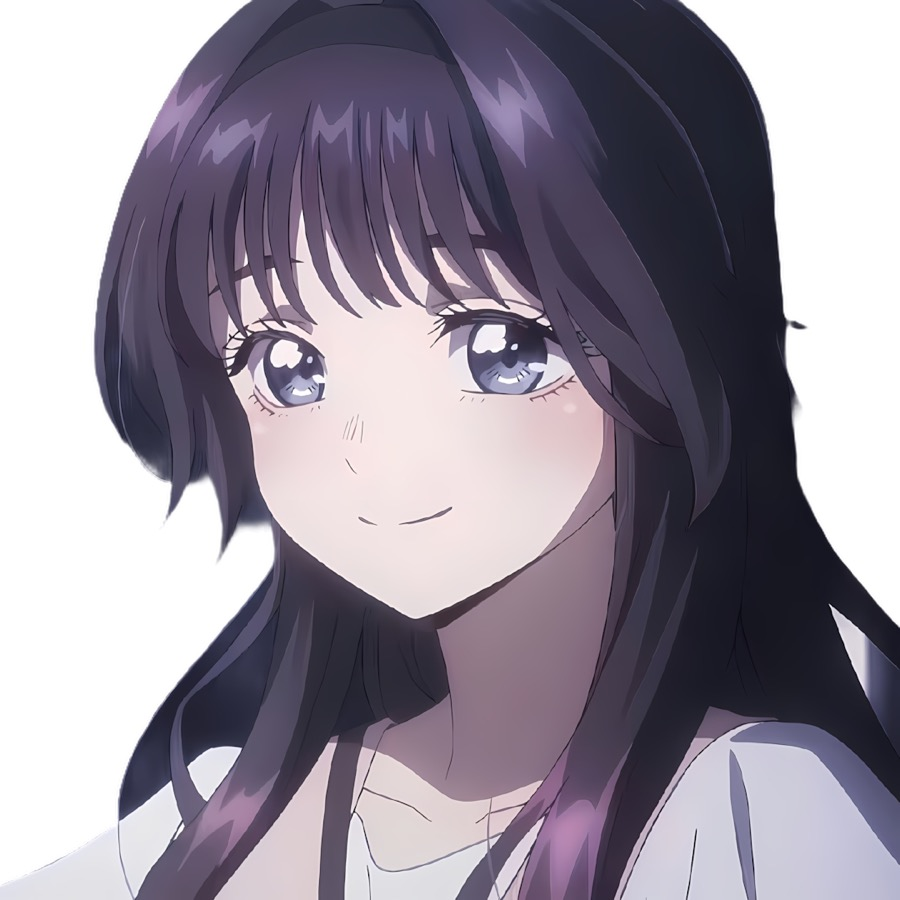
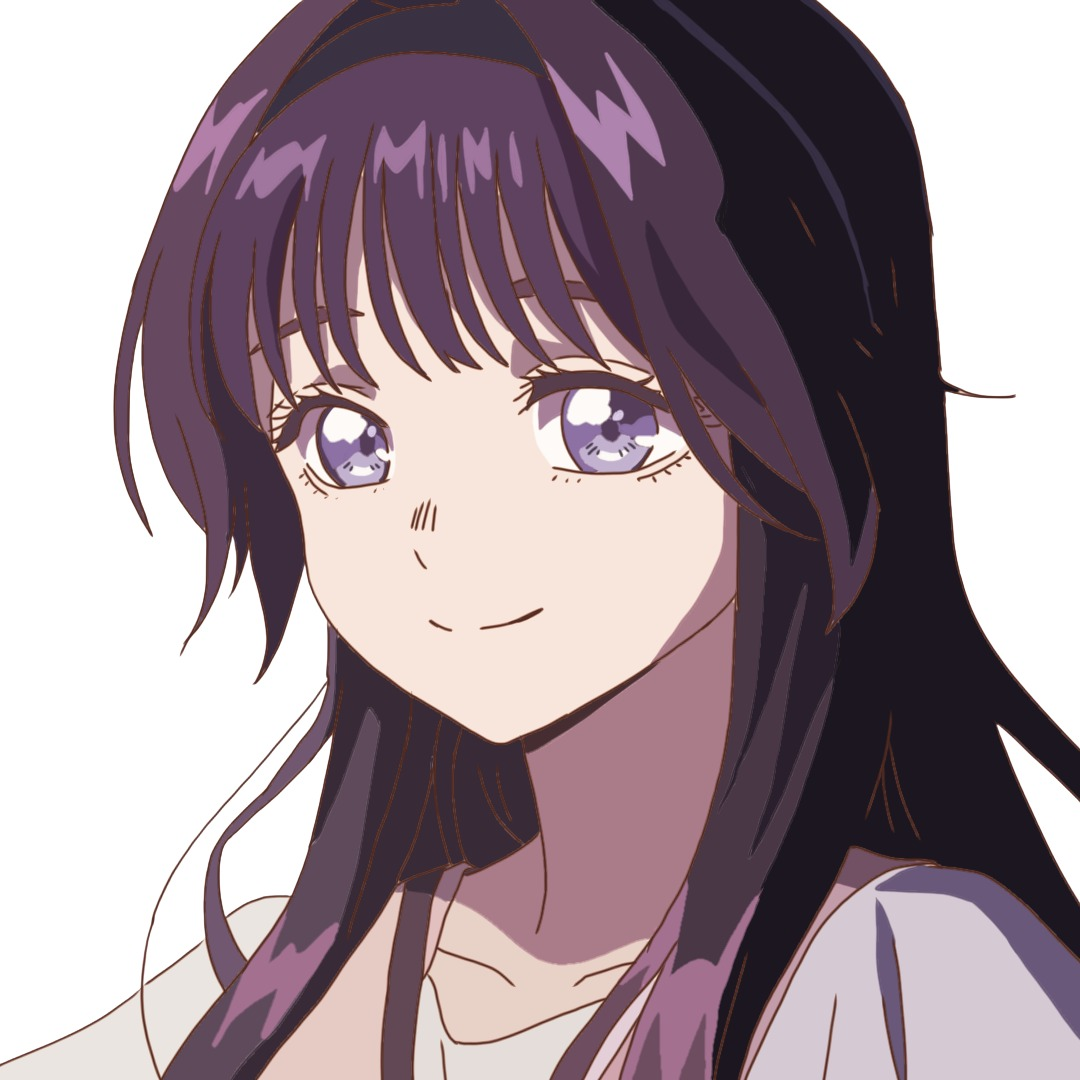
chore(assets): 更新主页头像和网站图标描述
- 替换主页头像图片及相关二进制资源
- 调整 favicon.svg 中头像颜色描述为紫发浅紫瞳
- 增加主页设计评审报告文件，包含详细设计健康评分和改进建议
- 无功能代码变更，主要为资源和文档更新

diff --git a/src/styles/index.css b/src/styles/index.css
@@ -29,15 +29,17 @@
     font-family: 'MiSans', 'MiSans Normal', 'MiSans-Normal', 'MiSans VF', -apple-system, BlinkMacSystemFont, 'Segoe UI', Roboto, sans-serif;
   }
 
-  /* 彻底消除任何元素在激活或聚焦时的浏览器原生黑边/黑框 */
-  *, *:focus, *:focus-visible, *:active {
-    outline: none !important;
-    -webkit-tap-highlight-color: transparent !important;
+  :focus {
+    outline: none;
   }
 
-  input, textarea, select, button, a {
-    outline: none !important;
-    -webkit-tap-highlight-color: transparent;
+  :focus-visible {
+    outline: 2px solid #ff8fa6;
+    outline-offset: 2px;
+  }
+
+  .dark :focus-visible {
+    outline-color: #ffc0cb;
   }
 
   /* 彻底屏蔽 Mermaid 任何全局错误炸弹 SVG 节点泄露 */

diff --git a/.impeccable/critique/2026-09-19T03-34-49Z__src-pages-home-tsx.md b/.impeccable/critique/2026-09-19T03-34-49Z__src-pages-home-tsx.md
@@ -1,0 +1,100 @@
+---
+target: 首页
+total_score: 18
+max_score: 32
+na_heuristics: 7,10
+p0_count: 0
+p1_count: 3
+target_identity: "file:/Users/xingranya/Downloads/HTML5CSS/xingranya-home/src/pages/Home.tsx"
+target_fingerprint: "sha256:afa2cae89c12dbe631ee671f31a15ba50210574d35ad58ca2324206b35ac09c4"
+target_path: /Users/xingranya/Downloads/HTML5CSS/xingranya-home/src/pages/Home.tsx
+timestamp: 2026-09-19T03-34-49Z
+slug: src-pages-home-tsx
+---
+# Critique: 首页 (`src/pages/Home.tsx`)
+
+Method: dual-agent (A: 01a0b7b1-1dca-7ec1-8afe-9e042bf96088 · B: 01a0b7b1-1dcb-7002-8d6c-d4e5209140b1)
+
+## Design Health Score
+
+| # | Heuristic | Score | Key Issue |
+|---|-----------|-------|-----------|
+| 1 | Visibility of System Status | 2 | 社交无常驻标签；在线点 hover 才出英文 `online`；搜索仅 ⌘K |
+| 2 | Match System / Real World | 2 | 中英混排；「7 篇手记 / 运行 1362 天」像模板遗产 |
+| 3 | User Control and Freedom | 3 | 导航始终在、博客新开正确；全局取消 outline、外链 5s 倒计时 |
+| 4 | Consistency and Standards | 2 | 「博客」四处入口形态不同；双信封；页脚「动态手记」≠ 导航「手记/动态」 |
+| 5 | Error Prevention | 2 | 双邮箱易点错；二维码未裁切；手记指标把访客导向模板日记 |
+| 6 | Recognition Rather Than Recall | 2 | 9 个 icon-only；代表作要自己想到点「关于」 |
+| 7 | Flexibility and Efficiency | n/a | Persuade/Experience 名片页，无重复专家任务 |
+| 8 | Aesthetic and Minimalist Design | 3 | 纸与姓名克制；雨丝、9 图标、7 导航、半屏页脚抢像素 |
+| 9 | Error Recovery | 2 | 首页几乎无错误态；二维码依赖外链图床，失败无占位 |
+| 10 | Help and Documentation | n/a | 名片页不需要文档系统 |
+| **Total** | | **18/32** | **Acceptable（56%）** |
+
+## Design Specificity Verdict
+
+**LLM：** 半成品粉笺名片。头像、樱花墨姓名、金句、微信/QQ 纸片是这个人的；`Hi, I'm` / `full-stack things`、7 槽对等导航、Jobs 英文 motto、表演型雨丝、把模板手记当人生预览，换皮即可变成别人的数字花园。产品成功标准「做过什么」不在首页。
+
+**Deterministic scan：** CLI `impeccable detect --json` 对 8 个首页相关源文件 **exit 0 / 空数组**。浏览器注入 `detect.js` 后 **8** 条：low-contrast×5、extreme-negative-tracking×1、undersized-ui-text×1、skipped-heading×1。源码扫描漏掉了计算后的对比度与字号，overlay 补上了。
+
+**Visual overlays：** Assessment B 在独立标签注入成功（port 8400，8 个 `.impeccable-overlay`）。live-server 已停止，叠加层不再常驻。
+
+## Overall Impression
+
+第一眼像递出粉笺：纸底、头像、姓名成立。读完第一屏仍不知道做过什么。最大机会：把 2–3 个认领过的项目放到身份区下面，把顶栏和社交从「频道墙」收成名片动作。
+
+## What's Working
+
+1. 头像圆裁 + MiSans 姓名 sakura-ink + 纸色，身份三拍清楚。
+2. 博客外置正确：导航 ↗、公告「去博客」、社交地球均指向 blog.xran.uk，新开、不拦首页。
+3. 微信/QQ 悬停出纸片二维码，不跳外链。
+
+## Priority Issues
+
+### [P1] 首页没有代表作
+- **Why：** 主任务「做过什么」失败。精选项目锁在关于页。
+- **Fix：** 身份区下收 2–3 个主人认领项目（名 + 一句 + 链接）。不要用模板手记充数。
+- **Suggested command：** `$impeccable layout`
+
+### [P1] 顶栏把频道与认识你等权，并预览模板人生
+- **Why：** 7 项对等；hover 手记弹出模板日记；「7 篇手记」会当作成绩。
+- **Fix：** 顶栏收敛为首页 / 博客 / 关于（至多再留一个内容入口）；指标改为真实或删掉。
+- **Suggested command：** `$impeccable distill`
+
+### [P1] 联系方式是 9 枚无标签图标，两只信封
+- **Why：** 移动端无 tooltip；Email/Gmail 同图标。
+- **Fix：** 主路径 GitHub / 博客 / 一个邮箱，其余进更多；热区 ≥44px。
+- **Suggested command：** `$impeccable clarify`
+
+### [P2] 弱对比、过小字、焦点被关掉
+- **Why：** 指标 2.41:1；金句 4.47:1；全局 `outline: none !important`。
+- **Fix：** 正文/指标 ≥4.5:1；恢复 sakura 焦点光晕。
+- **Suggested command：** `$impeccable harden`
+
+### [P2] 移动端公告截断、二维码溢出、热区过小
+- **Why：** 390 宽公告 `line-clamp-1`；微信纸片超出视口；导航高 20px、社交 32px。
+- **Fix：** 裁切二维码、防溢出、热区 44px、移动页脚降权。
+- **Suggested command：** `$impeccable adapt`
+
+## Persona Red Flags
+
+**Jordan：** 5 秒内能读到星苒鸭，随后被 full-stack things 卡住；代表作不在屏上；点手记会碰到模板日记。
+
+**Casey：** 顶栏热区 20px、社交 32px；微信 QR 右侧裁切；公告截成「技术长文请看…」；拇指区没有主 CTA。
+
+**招聘/GitHub 访客：** 看不到仓库名与角色；GitHub 只是 9 图标之一；短停留结论像模板站。
+
+## Minor Observations
+
+- 技能胶囊粉闪标像未完成 CLI。
+- 页脚 Jobs 句与「Powered by Rsbuild & React 19」抢走终局。
+- Hero 初始 `opacity-0` 等 GSAP，减动效/无 JS 有空白风险。
+- `enableSearch: true` 但首页无搜索按钮。
+- 朋友功能保留正确，空名单 hover 像故障。
+- Overlay：`h1` 后页脚 `h3` 跳级；技能胶囊字距 -0.07em；公告徽章 10.5px。
+
+## Questions to Consider
+
+- 若首页只允许三个动作，为什么不是 GitHub / 一篇代表作 / 去博客？
+- 「7 篇手记」若不能代表主人，为什么印在姓名下面？
+- `full-stack things` 是自嘲还是还没决定自己是谁？
